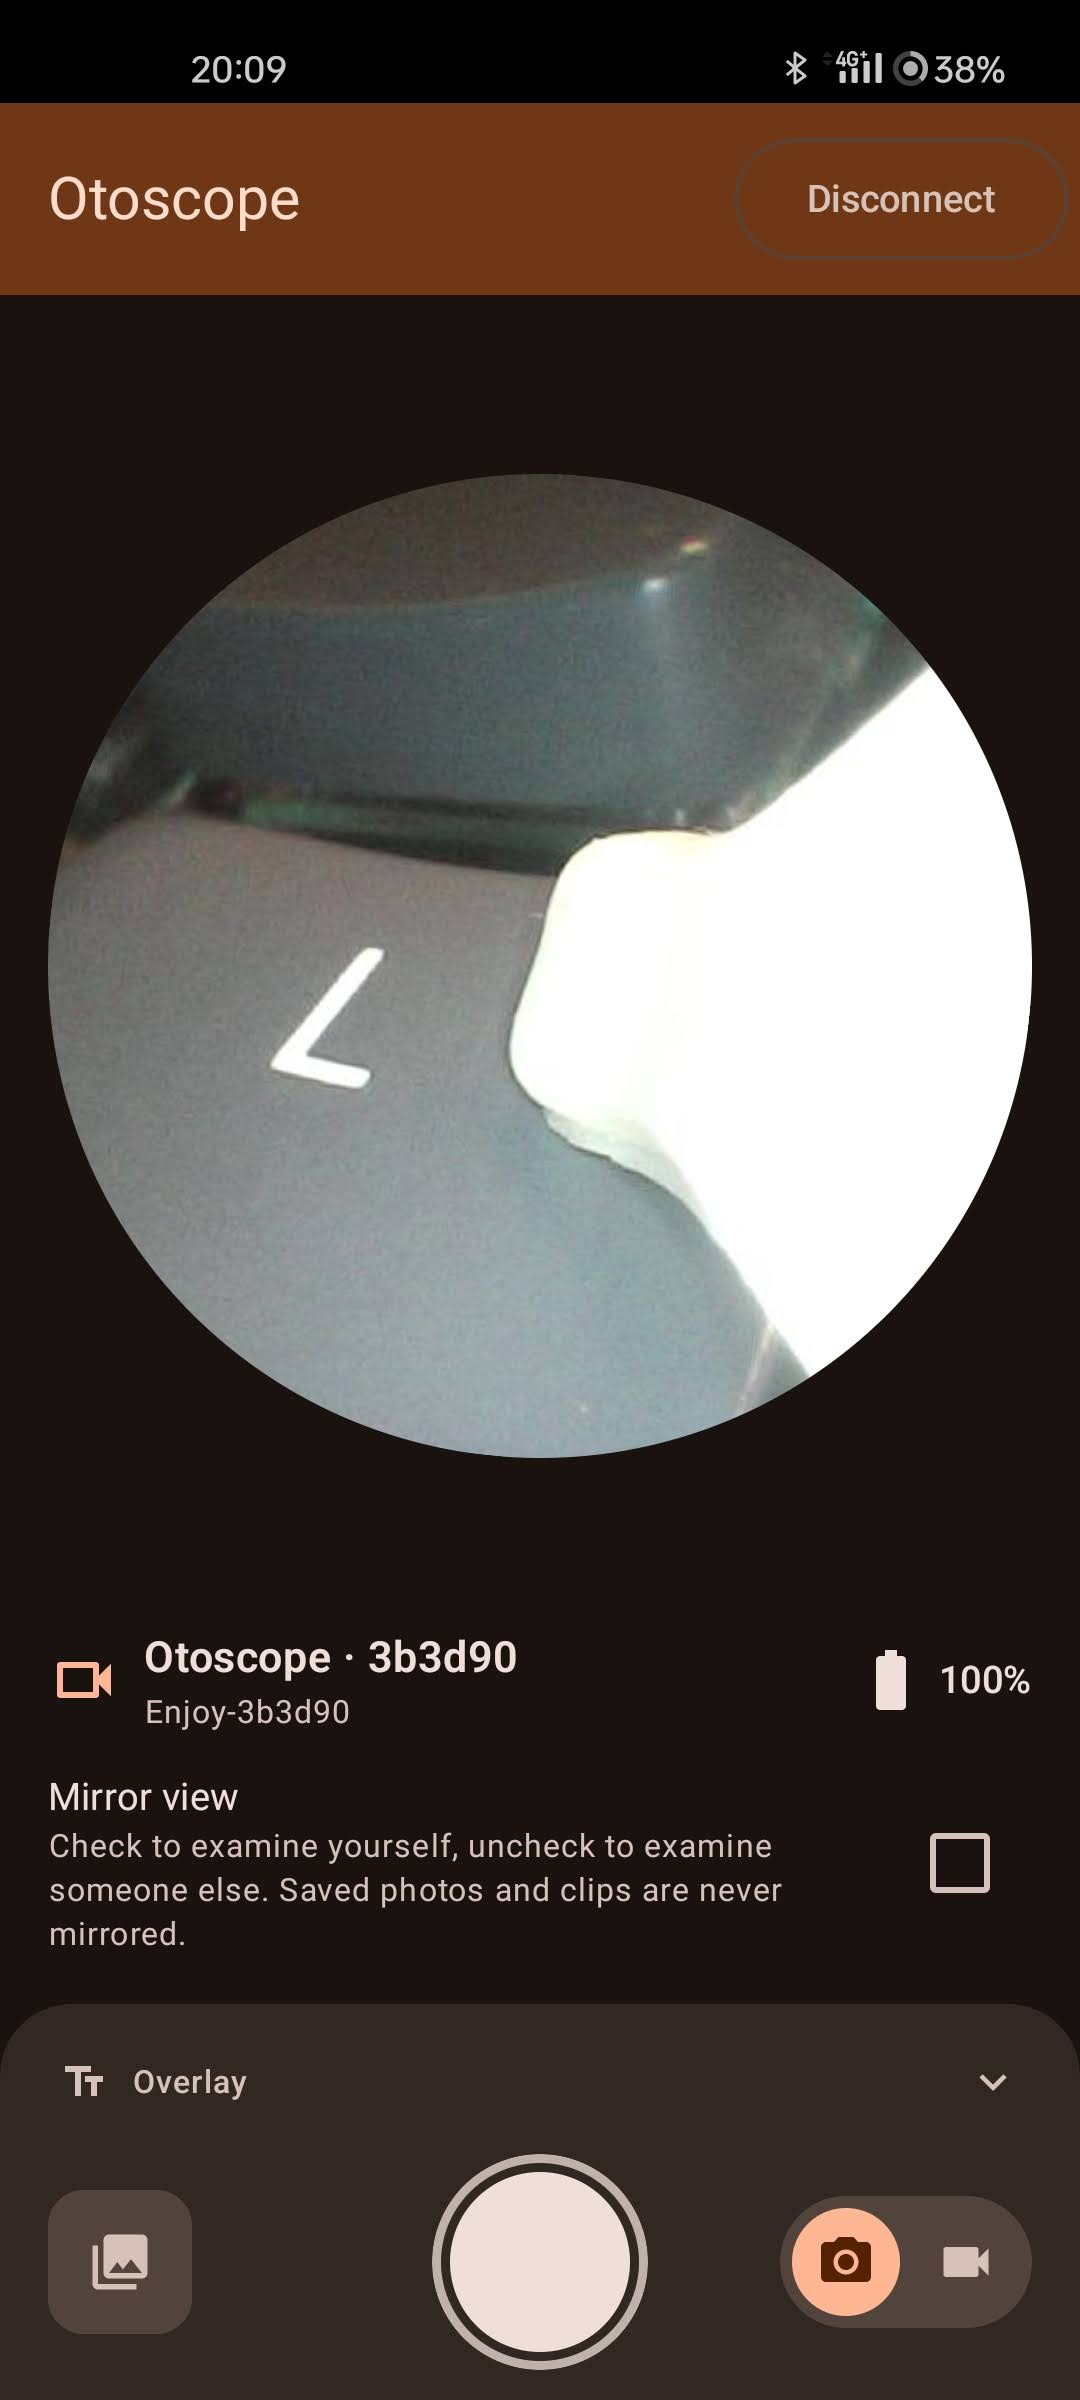
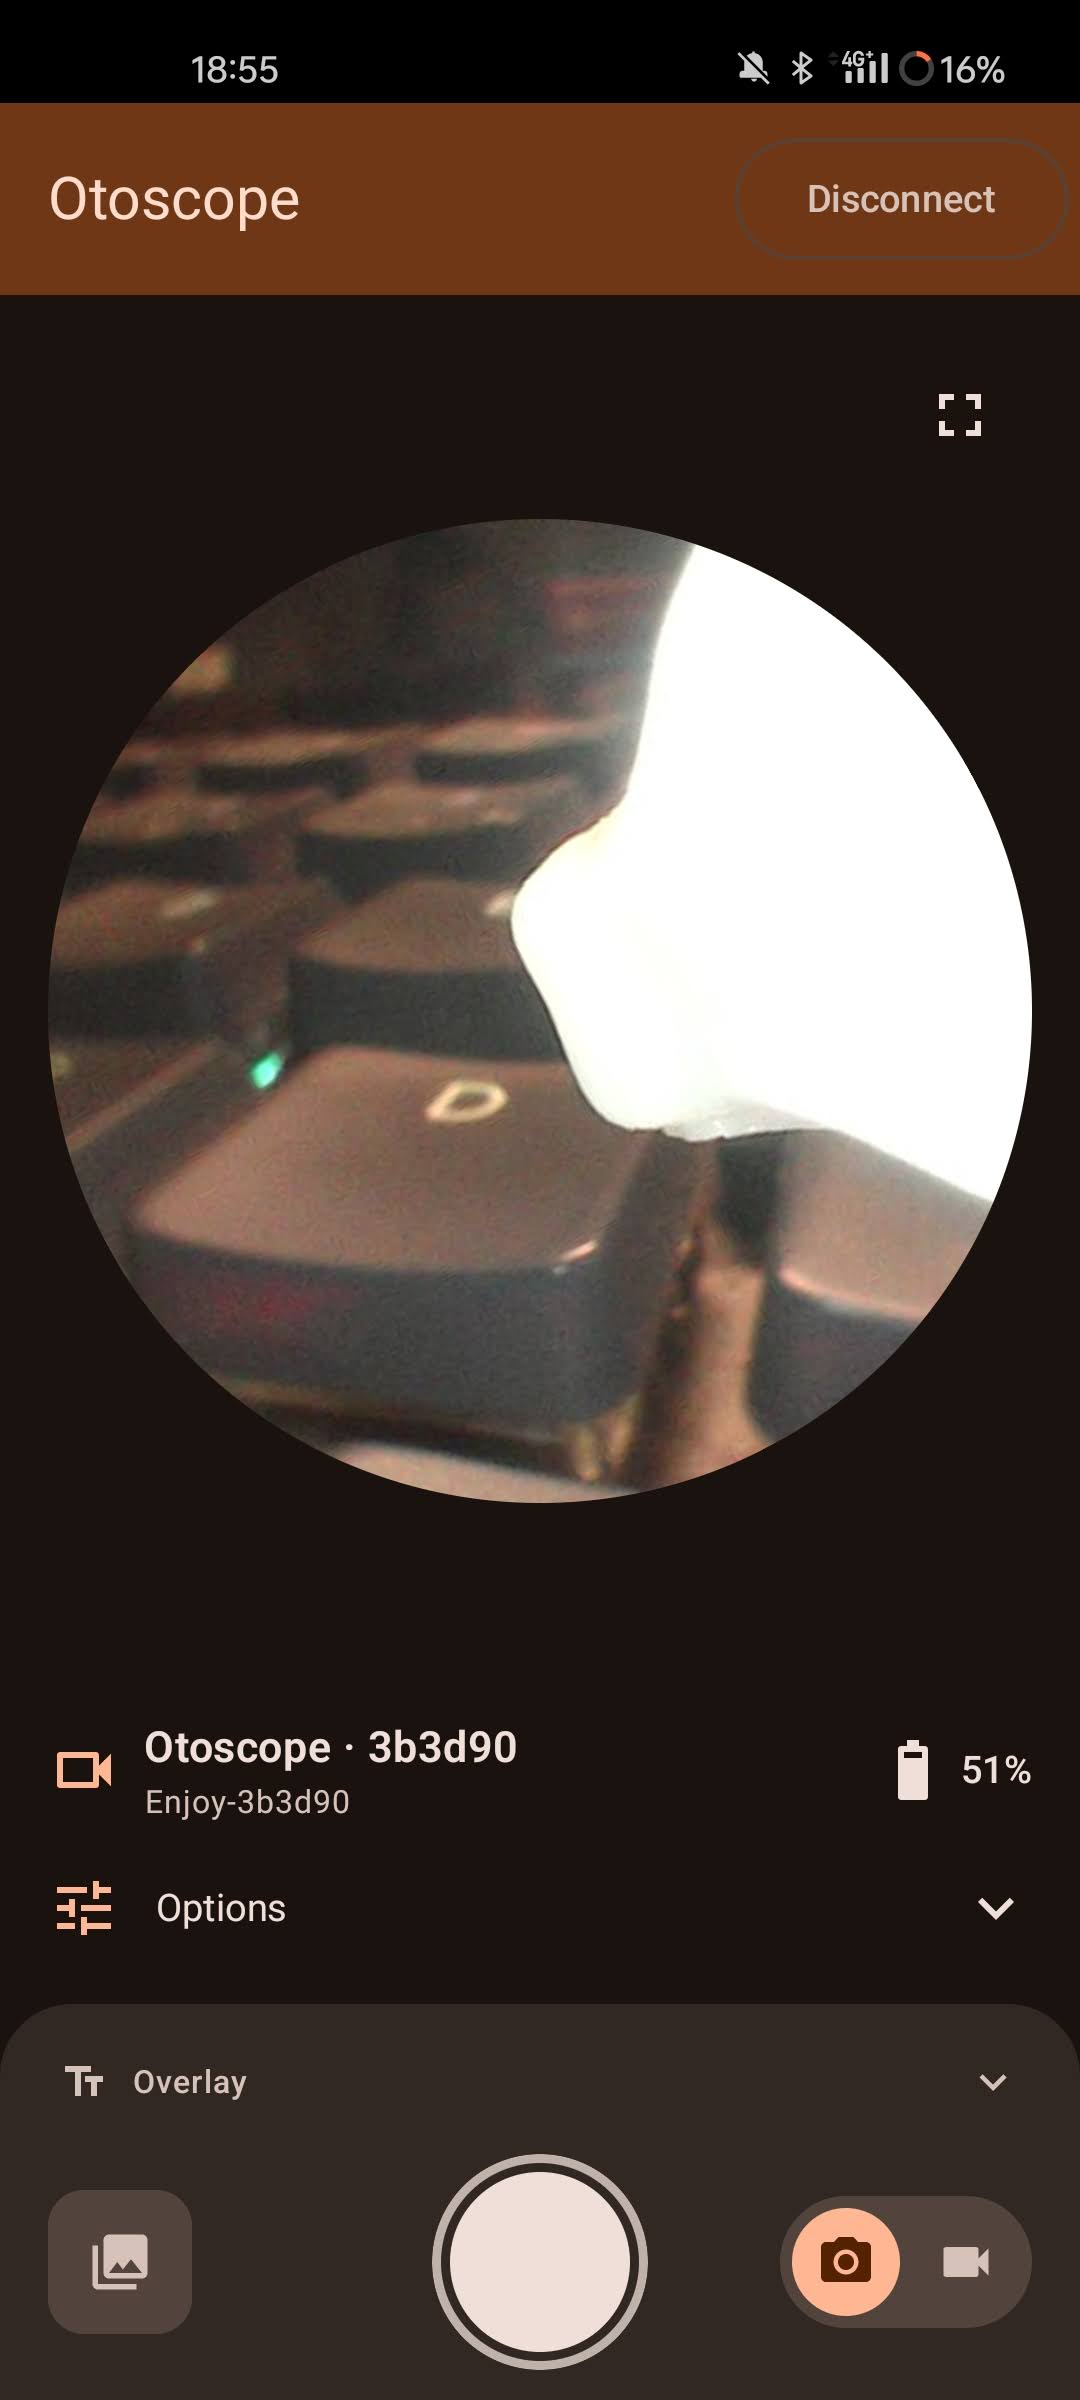
Bump v0.9.0 Remove back circle overlay when auto rotate is off, add manual 90° increment rotation

diff --git a/app/src/main/kotlin/dev/rubec/otoscope/ui/OtoscopeScreen.kt b/app/src/main/kotlin/dev/rubec/otoscope/ui/OtoscopeScreen.kt
@@ -33,11 +33,13 @@ import androidx.compose.material.icons.filled.BatteryFull
 import androidx.compose.material.icons.filled.Bluetooth
 import androidx.compose.material.icons.filled.ExpandLess
 import androidx.compose.material.icons.filled.ExpandMore
+import androidx.compose.material.icons.filled.Flip
 import androidx.compose.material.icons.filled.Fullscreen
 import androidx.compose.material.icons.filled.FullscreenExit
 import androidx.compose.material.icons.filled.BluetoothDisabled
 import androidx.compose.material.icons.filled.Lightbulb
 import androidx.compose.material.icons.filled.PowerOff
+import androidx.compose.material.icons.filled.Rotate90DegreesCcw
 import androidx.compose.material.icons.filled.ScreenRotation
 import androidx.compose.material.icons.filled.Stop
 import androidx.compose.material.icons.filled.Tune
@@ -47,7 +49,6 @@ import androidx.compose.material.icons.outlined.Videocam
 import androidx.compose.material3.Button
 import androidx.compose.material3.Card
 import androidx.compose.material3.CardDefaults
-import androidx.compose.material3.Checkbox
 import androidx.compose.material3.CircularProgressIndicator
 import androidx.compose.material3.Switch
 import androidx.compose.material3.ExperimentalMaterial3Api
@@ -105,6 +106,7 @@ fun OtoscopeScreen(
     onDisconnect: () -> Unit,
     onSetFlip: (Boolean) -> Unit,
     onSetAutoRotate: (Boolean) -> Unit,
+    onRotateCcw: () -> Unit,
 ) {
     val focusManager = LocalFocusManager.current
     val snackbarHostState = remember { SnackbarHostState() }
@@ -156,6 +158,7 @@ fun OtoscopeScreen(
                     capture = capture,
                     onSetFlip = onSetFlip,
                     onSetAutoRotate = onSetAutoRotate,
+                    onRotateCcw = onRotateCcw,
                     onEnterFullscreen = { fullscreen = true },
                     onOpenGallery = {
                         // The caption field's text-selection handles are drawn
@@ -195,6 +198,7 @@ fun OtoscopeScreen(
         FullscreenCameraView(
             state = state,
             overlayText = overlayText,
+            onRotateCcw = onRotateCcw,
             onExit = { fullscreen = false },
         )
     }
@@ -525,6 +529,7 @@ private fun StreamingView(
     capture: CaptureController,
     onSetFlip: (Boolean) -> Unit,
     onSetAutoRotate: (Boolean) -> Unit,
+    onRotateCcw: () -> Unit,
     onEnterFullscreen: () -> Unit,
     onOpenGallery: () -> Unit,
 ) {
@@ -571,13 +576,23 @@ private fun StreamingView(
                     frame = frame,
                     rotationDegrees = rotation,
                     flipEnabled = flipEnabled,
+                    circularMask = autoRotate,
                     overlayText = overlayText,
                 )
-                IconButton(
-                    onClick = onEnterFullscreen,
+                Row(
                     modifier = Modifier.align(Alignment.TopEnd),
+                    verticalAlignment = Alignment.CenterVertically,
                 ) {
-                    Icon(Icons.Default.Fullscreen, contentDescription = "Fullscreen")
+                    // Only useful when the sensor-driven rotation is off,
+                    // otherwise the user's -90° would be overridden next frame.
+                    if (!autoRotate) {
+                        IconButton(onClick = onRotateCcw) {
+                            Icon(Icons.Default.Rotate90DegreesCcw, contentDescription = "Rotate 90° counter-clockwise")
+                        }
+                    }
+                    IconButton(onClick = onEnterFullscreen) {
+                        Icon(Icons.Default.Fullscreen, contentDescription = "Fullscreen")
+                    }
                 }
             }
 
@@ -602,34 +617,20 @@ private fun StreamingView(
                     }
 
                     LabeledSwitch(
+                        icon = Icons.Default.Flip,
+                        title = "Mirror",
+                        subtitle = "Mirror the view for easier self-exams.",
+                        checked = flipEnabled,
+                        onCheckedChange = onSetFlip,
+                    )
+
+                    LabeledSwitch(
                         icon = Icons.Default.ScreenRotation,
                         title = "Auto-rotate",
                         subtitle = "Keep the image upright using the otoscope's motion sensor.",
                         checked = autoRotate,
                         onCheckedChange = onSetAutoRotate,
                     )
-
-                    Row(
-                        modifier = Modifier.fillMaxWidth(),
-                        verticalAlignment = Alignment.CenterVertically,
-                    ) {
-                        Column(modifier = Modifier.weight(1f)) {
-                            Text(
-                                "Mirror view",
-                                style = MaterialTheme.typography.bodyMedium,
-                            )
-                            Text(
-                                "Check to examine yourself, uncheck to examine someone else. " +
-                                    "Saved photos and clips are never mirrored.",
-                                style = MaterialTheme.typography.bodySmall,
-                                color = MaterialTheme.colorScheme.onSurfaceVariant,
-                            )
-                        }
-                        Checkbox(
-                            checked = flipEnabled,
-                            onCheckedChange = onSetFlip,
-                        )
-                    }
 
                     if (BuildConfig.DEBUG && diagnostics.isNotEmpty()) {
                         DiagnosticsOverlay(diagnostics)
@@ -685,11 +686,13 @@ private fun OptionsHeader(expanded: Boolean, onToggle: () -> Unit) {
 private fun FullscreenCameraView(
     state: CameraState.Streaming,
     overlayText: String,
+    onRotateCcw: () -> Unit,
     onExit: () -> Unit,
 ) {
     val frame by state.frame.collectAsStateWithLifecycle()
     val rotation by state.rotation.collectAsStateWithLifecycle()
     val flipEnabled by state.flipEnabled.collectAsStateWithLifecycle()
+    val autoRotate by state.autoRotateEnabled.collectAsStateWithLifecycle()
 
     val view = LocalView.current
     DisposableEffect(view) {
@@ -713,15 +716,28 @@ private fun FullscreenCameraView(
             frame = frame,
             rotationDegrees = rotation,
             flipEnabled = flipEnabled,
+            circularMask = autoRotate,
             overlayText = overlayText,
             modifier = Modifier.fillMaxSize(),
         )
-        IconButton(
-            onClick = onExit,
+        Row(
             modifier = Modifier.align(Alignment.TopEnd).padding(16.dp),
-            colors = IconButtonDefaults.iconButtonColors(contentColor = Color.White),
+            verticalAlignment = Alignment.CenterVertically,
         ) {
-            Icon(Icons.Default.FullscreenExit, contentDescription = "Exit fullscreen")
+            if (!autoRotate) {
+                IconButton(
+                    onClick = onRotateCcw,
+                    colors = IconButtonDefaults.iconButtonColors(contentColor = Color.White),
+                ) {
+                    Icon(Icons.Default.Rotate90DegreesCcw, contentDescription = "Rotate 90° counter-clockwise")
+                }
+            }
+            IconButton(
+                onClick = onExit,
+                colors = IconButtonDefaults.iconButtonColors(contentColor = Color.White),
+            ) {
+                Icon(Icons.Default.FullscreenExit, contentDescription = "Exit fullscreen")
+            }
         }
     }
 }

diff --git a/app/src/main/kotlin/dev/rubec/otoscope/vm/CameraViewModel.kt b/app/src/main/kotlin/dev/rubec/otoscope/vm/CameraViewModel.kt
@@ -88,6 +88,11 @@ class CameraViewModel(app: Application) : AndroidViewModel(app) {
      *  the camera sends it. Kept across sessions within the app's lifetime. */
     private val autoRotateEnabled = MutableStateFlow(true)
 
+    /** Extra rotation the user applied manually via the rotate button, in
+     *  degrees. Only meaningful while auto-rotate is off; reset at every new
+     *  session so a reconnect starts flat. */
+    private val manualRotation = MutableStateFlow(0f)
+
     fun startScan(mode: DiscoveryMode) {
         // Both modes need Wi-Fi enabled; BLE additionally needs Bluetooth on.
         if (mode == DiscoveryMode.BLE && !bleScanner.isBluetoothEnabled) {
@@ -200,9 +205,11 @@ class CameraViewModel(app: Application) : AndroidViewModel(app) {
             cameraIp = cameraIp,
         )
         flipEnabled.value = true
+        manualRotation.value = 0f
         session.start()
-        val rotation = combine(session.rotation, autoRotateEnabled) { degrees, auto -> if (auto) degrees else 0f }
-            .stateIn(viewModelScope, SharingStarted.Eagerly, initialValue = 0f)
+        val rotation = combine(session.rotation, autoRotateEnabled, manualRotation) { degrees, auto, manual ->
+            if (auto) degrees else manual
+        }.stateIn(viewModelScope, SharingStarted.Eagerly, initialValue = 0f)
         capture.attach(session, rotation)
 
         val frameState = session.frames
@@ -358,6 +365,21 @@ class CameraViewModel(app: Application) : AndroidViewModel(app) {
 
     fun setAutoRotateEnabled(enabled: Boolean) {
         autoRotateEnabled.value = enabled
+        // Fresh manual pose on every flip, so the user doesn't inherit a 270°
+        // offset from the last time they played with the rotate button.
+        if (enabled) manualRotation.value = 0f
+    }
+
+    /** Rotate the manual pose by 90° counter-clockwise, visually. [CameraFrame]
+     *  negates the applied `rotationZ` when the mirror is on (so the sensor
+     *  rotation reads the same way physically either way), which also flips
+     *  the sign the user would see for a manual tap — so compensate here.
+     *  Normalised to [0, 360) to keep the stored value bounded regardless
+     *  of how many times the user taps. No-op while auto-rotate is on — the
+     *  UI only exposes the rotate button in the off state. */
+    fun rotateManuallyCcw90() {
+        val delta = if (flipEnabled.value) 90f else -90f
+        manualRotation.update { current -> (current + delta + 360f) % 360f }
     }
 
     fun disconnect() {

diff --git a/app/src/main/kotlin/dev/rubec/otoscope/ui/CameraFrame.kt b/app/src/main/kotlin/dev/rubec/otoscope/ui/CameraFrame.kt
@@ -30,7 +30,8 @@ import androidx.compose.ui.text.style.TextOverflow
 import dev.rubec.otoscope.capture.CaptureGeometry
 
 /**
- * Renders the latest camera frame inside a circular mask.
+ * Renders the latest camera frame inside a circular mask (when
+ * [circularMask] is true, which is the usual case while auto-rotation is on).
  *
  * Two transformations live here:
  *  - **Horizontal mirror**. When [flipEnabled] is true the image is flipped
@@ -46,6 +47,11 @@ import dev.rubec.otoscope.capture.CaptureGeometry
  *  produced a visibly smoother image; the accelerometer already gives us a
  *  stable stream at ~20 Hz, and any extra filter only adds perceivable lag.
  *
+ *  The circular mask exists only to hide the corners of the rotated frame.
+ *  With auto-rotation off, those corners stop sweeping into view and the mask
+ *  becomes dead black pixels around a square image. Set [circularMask] to
+ *  false in that mode so the full frame reaches the user.
+ *
  *  [overlayText] previews the caption that [dev.rubec.otoscope.capture.FrameComposer]
  *  burns into saved captures. Its placement comes from the same
  *  [CaptureGeometry.caption] the burn-in uses, but it's drawn *outside* both the
@@ -57,6 +63,7 @@ fun CameraFrame(
     modifier: Modifier = Modifier,
     rotationDegrees: Float = 0f,
     flipEnabled: Boolean = true,
+    circularMask: Boolean = true,
     overlayText: String = "",
 ) {
     // Only changes when the frame is laid out, not per video frame.
@@ -76,7 +83,7 @@ fun CameraFrame(
                     .fillMaxSize()
                     // Clip here rather than on the parent: the mask belongs to
                     // the image, and the caption below has to escape it.
-                    .clip(CircleShape)
+                    .then(if (circularMask) Modifier.clip(CircleShape) else Modifier)
                     .graphicsLayer {
                         scaleX = if (flipEnabled) -1f else 1f
                         rotationZ = if (flipEnabled) -rotationDegrees else rotationDegrees

diff --git a/app/src/main/kotlin/dev/rubec/otoscope/MainActivity.kt b/app/src/main/kotlin/dev/rubec/otoscope/MainActivity.kt
@@ -105,6 +105,7 @@ class MainActivity : ComponentActivity() {
                         onDisconnect = vm::disconnect,
                         onSetFlip = vm::setFlipEnabled,
                         onSetAutoRotate = vm::setAutoRotateEnabled,
+                        onRotateCcw = vm::rotateManuallyCcw90,
                     )
                 }
             }

diff --git a/CHANGELOG.md b/CHANGELOG.md
@@ -4,6 +4,17 @@ All notable changes to this project will be documented here.
 
 The format follows [Keep a Changelog](https://keepachangelog.com/en/1.1.0/), and the project adheres to [Semantic Versioning](https://semver.org/spec/v2.0.0.html).
 
+## [0.9.0] — 2026-10-06
+
+### Added
+- **Fullscreen stream view.** A button on the camera image shows it alone on black with the system bars hidden. Back or the exit button return; the session and any running recording carry on underneath.
+- **Auto-rotate toggle** in the options. When off, the image stops being rotation-compensated by the on-board accelerometer and the circular mask drops away so you see the full sensor square. Saved photos and clips match whatever the preview shows.
+- **Manual rotate button** next to the fullscreen one, shown only when auto-rotate is off. Each tap turns the image 90° counter-clockwise; the pose resets on reconnect or when auto-rotate is turned back on. Saved photos and clips honour it.
+
+### Changed
+- The ring-light, mirror and auto-rotate controls are now folded away under an "Options" row (collapsed by default), so the camera image keeps most of the screen.
+- The mirror toggle moved above auto-rotate and uses the same switch style as the other options, with a flip icon and a shorter label.
+
 ## [0.8.0] — 2026-10-05
 
 ### Added
